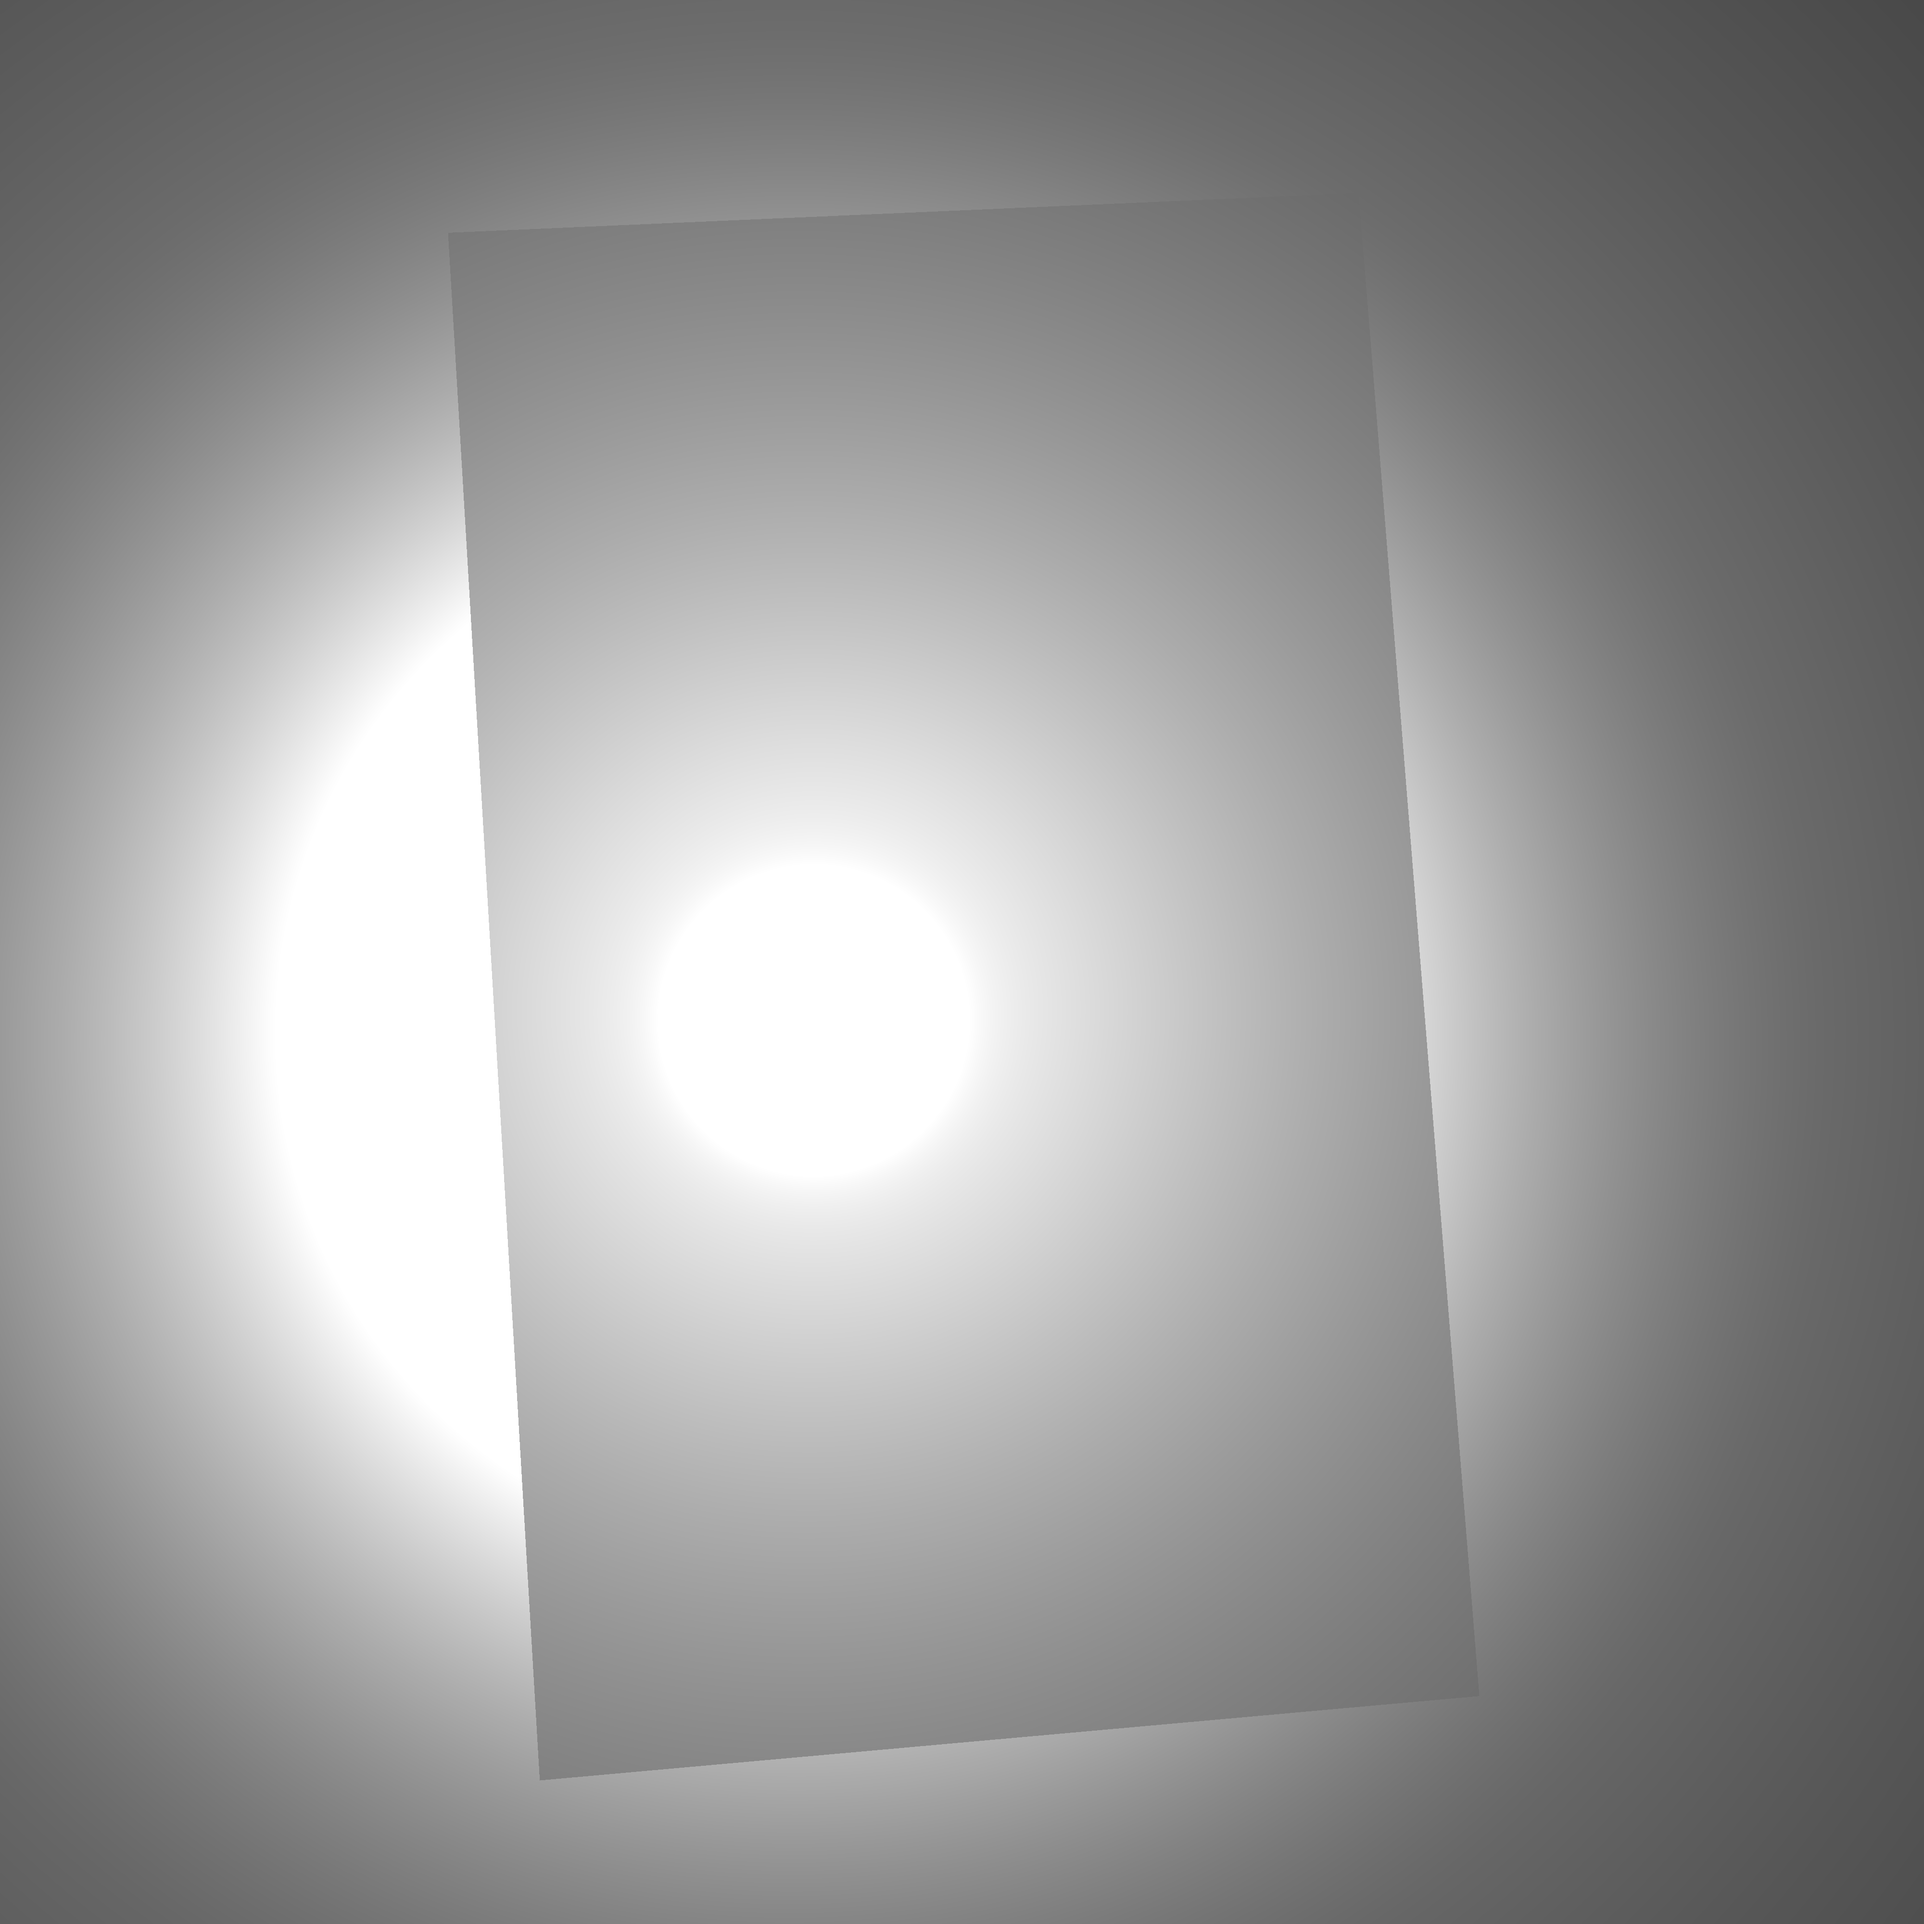
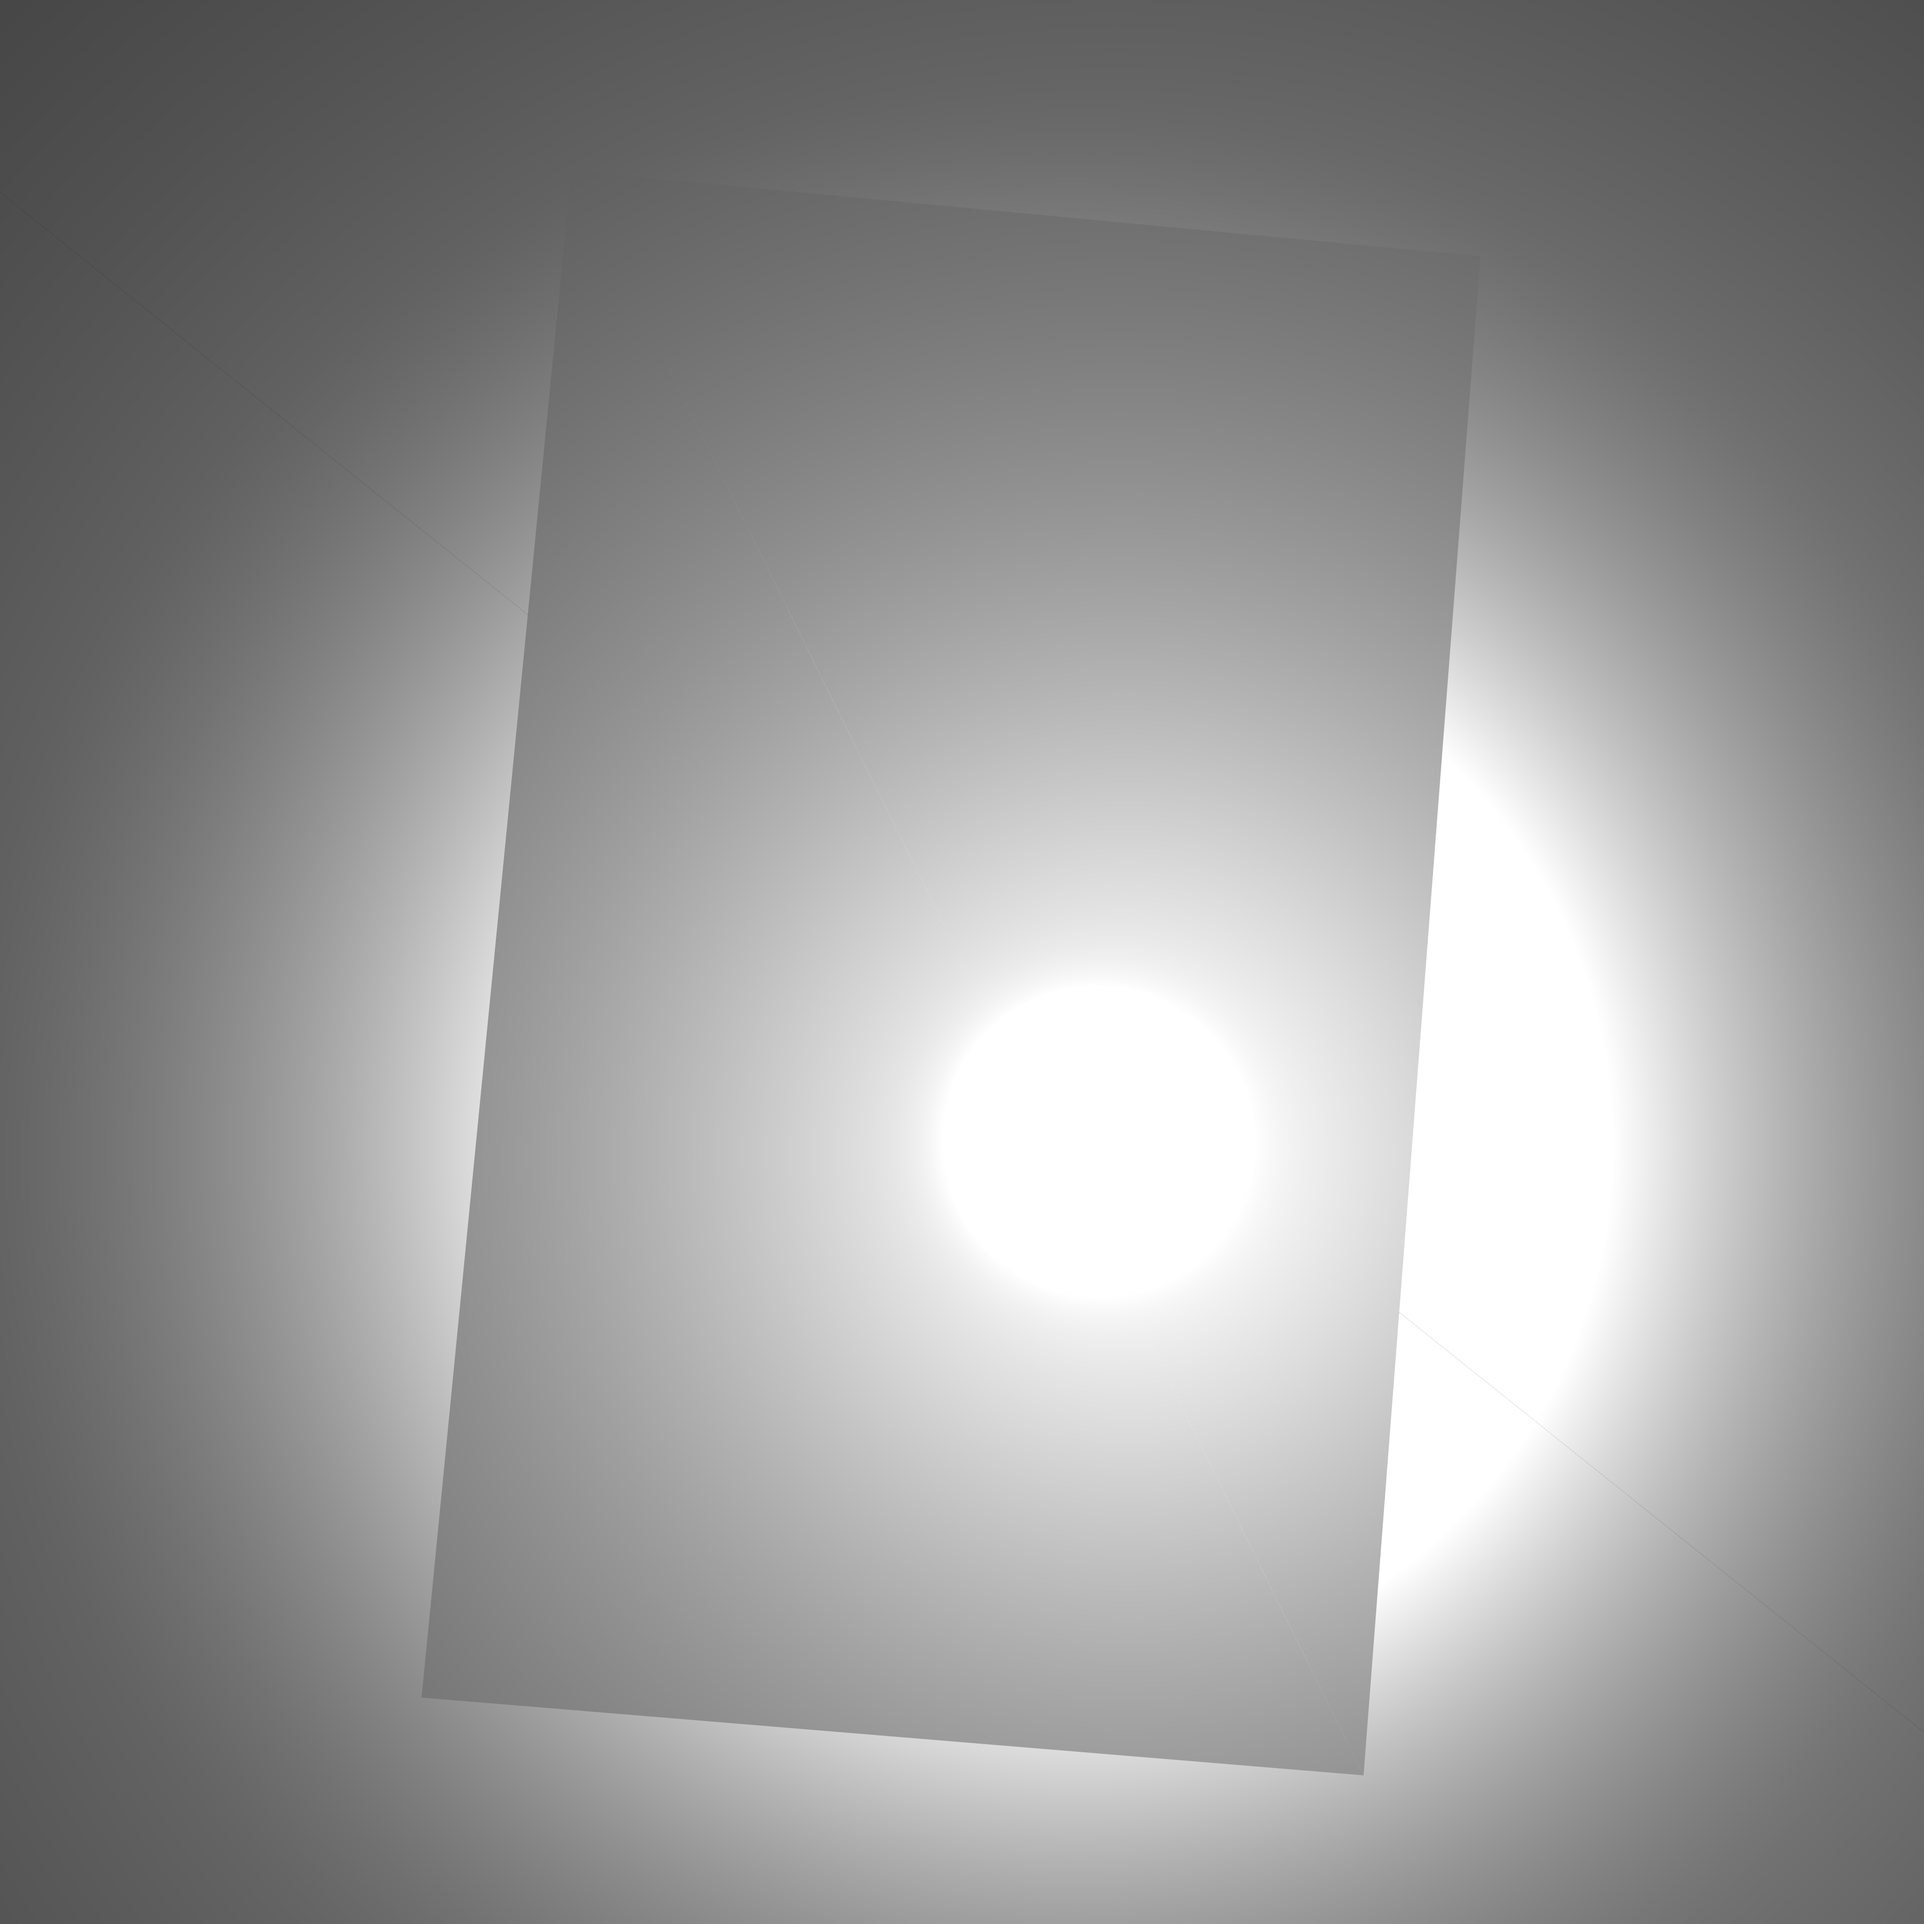
hw4 done

diff --git a/Задание 4/script.py b/Задание 4/script.py
@@ -9,6 +9,10 @@ from OpenGL.GL.shaders import *
 import numpy as np
 import cv2
 
+from wand.image import Image
+
+import PIL
+
 vertex_shader = """
 varying vec3 vN;
 varying vec3 v;
@@ -54,14 +58,21 @@ textureCoordinates = ((0, 0), (0, 1), (1, 1), (1, 0))
 
 surfaces = (
     (0, 1, 2, 3),
-    )
+)
 
 normals = [
-    (0,  0, 1),  # surface 0
+    (0, 0, 1),  # surface 0
 ]
 
 
 def draw_rect(verticies, normals, surfaces):
+    glEnable(GL_LINE_SMOOTH)
+    glEnable(GL_POLYGON_SMOOTH)
+    glHint(GL_LINE_SMOOTH_HINT, GL_NICEST)
+    glHint(GL_POLYGON_SMOOTH_HINT, GL_NICEST)
+    glEnable(GL_BLEND)
+    glBlendFunc(GL_SRC_ALPHA, GL_ONE_MINUS_SRC_ALPHA)
+
     glColor3f(1, 1, 1)
     glBegin(GL_QUADS)
     for i_surface, surface in enumerate(surfaces):
@@ -93,9 +104,9 @@ def lamp_lightning(lamp_x=0.5, lamp_y=0.5):
 
 
 def lightning():
-    glLight(GL_LIGHT0, GL_POSITION,  (0, 0, 3, 1))
+    glLight(GL_LIGHT0, GL_POSITION, (0, 0, 3, 1))
     # Diffuse lighting
-    glLightfv(GL_LIGHT0, GL_DIFFUSE, (255/255, 225/255, 195/255, 1))
+    glLightfv(GL_LIGHT0, GL_DIFFUSE, (255 / 255, 225 / 255, 195 / 255, 1))
     return
 
 
@@ -127,7 +138,7 @@ def process(n_iter,
 
     pygame.init()
     display = (4000, 4000)
-    pygame.display.set_mode(display, DOUBLEBUF|OPENGL)
+    pygame.display.set_mode(display, DOUBLEBUF | OPENGL)
 
     # shaders for "lamp" light
     program = compileProgram(
@@ -139,7 +150,7 @@ def process(n_iter,
 
     # Setting camera's field of view
     glMatrixMode(GL_PROJECTION)
-    gluPerspective(45, (display[0]/display[1]), 0.1, 50.0)
+    gluPerspective(45, (display[0] / display[1]), 0.1, 50.0)
 
     glMatrixMode(GL_MODELVIEW)
 
@@ -172,7 +183,7 @@ def process(n_iter,
 
     image_buffer = glReadPixels(0, 0, display[0], display[1], GL_RGB, GL_UNSIGNED_BYTE)
     image1 = np.frombuffer(image_buffer, dtype=np.uint8).reshape(display[0], display[1], 3)
-    cv2.imwrite("image1.png", cv2.cvtColor(image1, cv2.COLOR_RGB2BGR))
+    # cv2.imwrite("image1.png", cv2.cvtColor(image1, cv2.COLOR_RGB2BGR))
 
     # basic light
     lightning()
@@ -195,50 +206,62 @@ def process(n_iter,
 
     image_buffer = glReadPixels(0, 0, display[0], display[1], GL_RGB, GL_UNSIGNED_BYTE)
     image2 = np.frombuffer(image_buffer, dtype=np.uint8).reshape(display[0], display[1], 3)
-    cv2.imwrite("image2.png", cv2.cvtColor(image2, cv2.COLOR_RGB2BGR))
+    # cv2.imwrite("image2.png", cv2.cvtColor(image2, cv2.COLOR_RGB2BGR))
 
     grayscale = np.dot(image1, [0.114, 0.587, 0.299])
     res = cv2.cvtColor(np.array(image2 * np.repeat(np.expand_dims(grayscale, axis=-1), 3, axis=-1) / 255
-                                                    * 0.9 + image1 * 0.1, dtype=np.uint8), cv2.COLOR_RGB2BGR)
-    cv2.imwrite("image3.png", res)
+                                * 0.9 + image1 * 0.1, dtype=np.uint8), cv2.COLOR_RGB2BGR)
+    # cv2.imwrite("image3.png", res)
+    filename = img_name[:-4] + "_" + str(n_iter) + "_out.png"
 
-    # with Image.from_array(res) as img:
-    #     # Generate noise image using spread() function
-    #     img.noise("poisson", attenuate=0.9)
-    #     img.save(filename="image4.png")
+    # smoothing
+    res = cv2.GaussianBlur(res, (0, 0), sigmaX=1, sigmaY=1, borderType=cv2.BORDER_DEFAULT)
+    # cv2.imwrite("image4.png",  res)
 
+    # # resize
+    res = cv2.resize(res, dsize=(1300, 1300), interpolation=cv2.INTER_CUBIC)
+    # cv2.imwrite("image5.png", res)
 
-    # # Generate Gaussian noise
-    # gauss = np.random.normal(0, 1, res.size)
-    # gauss = gauss.reshape(res.shape).astype('uint8')
-    # # Add the Gaussian noise to the image
-    # img_gauss = cv2.add(res, gauss)
-    #
-    # cv2.imwrite("image4.png", img_gauss)
+    cv2.imwrite(filename, res)
 
-    # cv2.imwrite(img_name[:-4] + "_" + str(n_iter) + "_out.png", res)
+    # noise
+    # with Image(filename="image5.png") as res:
+    with Image(filename=filename) as res:
+        res.noise("laplacian", attenuate=1)
+        res.noise("impulse", attenuate=0.01)
+        res.save(filename=filename)
+        # res.save(filename="image6.png")
+
+    res = cv2.imread(filename)
+    # res = cv2.imread('image6.png')
+
+    # smoothing
+    res = cv2.GaussianBlur(res, (0, 0), sigmaX=0.5, sigmaY=0.5, borderType=cv2.BORDER_DEFAULT)
+    # cv2.imwrite("image7.png", res)
+    cv2.imwrite(filename, res)
+
     pygame.quit()
 
 
 def main():
-    rotate_angle_x = random.randrange(-6, 6)
-    rotate_angle_y = random.randrange(-6, 6)
-    rotate_angle_z = random.randrange(-6, 6)
-    lamp_x = random.uniform(-0.5, 0.5)
-    lamp_y = random.uniform(-0.5, 0.5)
-    process(0, "1.png", rotate_angle_x, rotate_angle_y, rotate_angle_z, lamp_x, lamp_y)
+    # rotate_angle_x = random.randrange(-6, 6)
+    # rotate_angle_y = random.randrange(-6, 6)
+    # rotate_angle_z = random.randrange(-6, 6)
+    # lamp_x = random.uniform(-0.5, 0.5)
+    # lamp_y = random.uniform(-0.5, 0.5)
+    # process(0, "1.png", rotate_angle_x, rotate_angle_y, rotate_angle_z, lamp_x, lamp_y)
 
-    # N_IMAGES = 10
-    # N_ITERS = 10
-    # for i in range(N_IMAGES):
-    #     img_name = str(i + 1) + ".png"
-    #     for j in range(N_ITERS):
-    #         rotate_angle_x = random.randrange(-6, 6)
-    #         rotate_angle_y = random.randrange(-6, 6)
-    #         rotate_angle_z = random.randrange(-6, 6)
-    #         lamp_x = random.uniform(-0.5, 0.5)
-    #         lamp_y = random.uniform(-0.5, 0.5)
-    #         process(j, img_name, rotate_angle_x, rotate_angle_y, rotate_angle_z, lamp_x, lamp_y)
+    N_IMAGES = 10
+    N_ITERS = 10
+    for i in range(N_IMAGES):
+        img_name = str(i + 1) + ".png"
+        for j in range(N_ITERS):
+            rotate_angle_x = random.randrange(-6, 6)
+            rotate_angle_y = random.randrange(-6, 6)
+            rotate_angle_z = random.randrange(-6, 6)
+            lamp_x = random.uniform(-0.5, 0.5)
+            lamp_y = random.uniform(-0.5, 0.5)
+            process(j, img_name, rotate_angle_x, rotate_angle_y, rotate_angle_z, lamp_x, lamp_y)
 
 
 main()

diff --git a/Задание 4/README.md b/Задание 4/README.md
@@ -1,11 +1,11 @@
 ### Материалы
 - https://stackoverflow.com/questions/67367424/how-do-i-add-an-image-as-texture-of-my-3d-cube-in-pyopengl -
-  базовый пример на opengl
+  базовый пример на OpenGL
 - https://www3.ntu.edu.sg/home/ehchua/programming/opengl/CG_BasicsTheory.html -
-неплохая статья с основами 3d-моделирования на opengl
+неплохая статья с основами 3d-моделирования на OpenGL
  - https://www.cse.msu.edu/~cse872/tutorial3.html#:~:text=Setting%20the%20Light%20Position,the%20position%20of%20a%20light -
-освещение в OpenGL
+освещение
  - https://stackoverflow.com/questions/67544996/how-to-make-specular-lighting-on-python-to-implement-the-phong-lighting -
 шейдеры для модели освещения Фонга
- - https://stackoverflow.com/questions/22937589/how-to-add-noise-gaussian-salt-and-pepper-etc-to-image-in-python-with-opencv - 
+ - https://www.geeksforgeeks.org/python-noise-function-in-wand/ - 
 добавление шума
